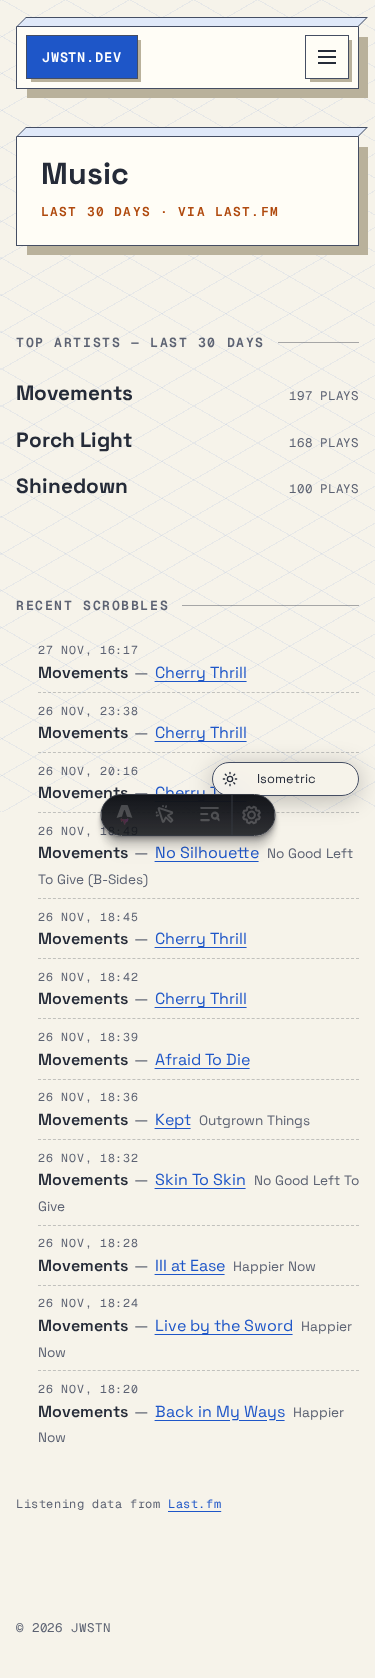
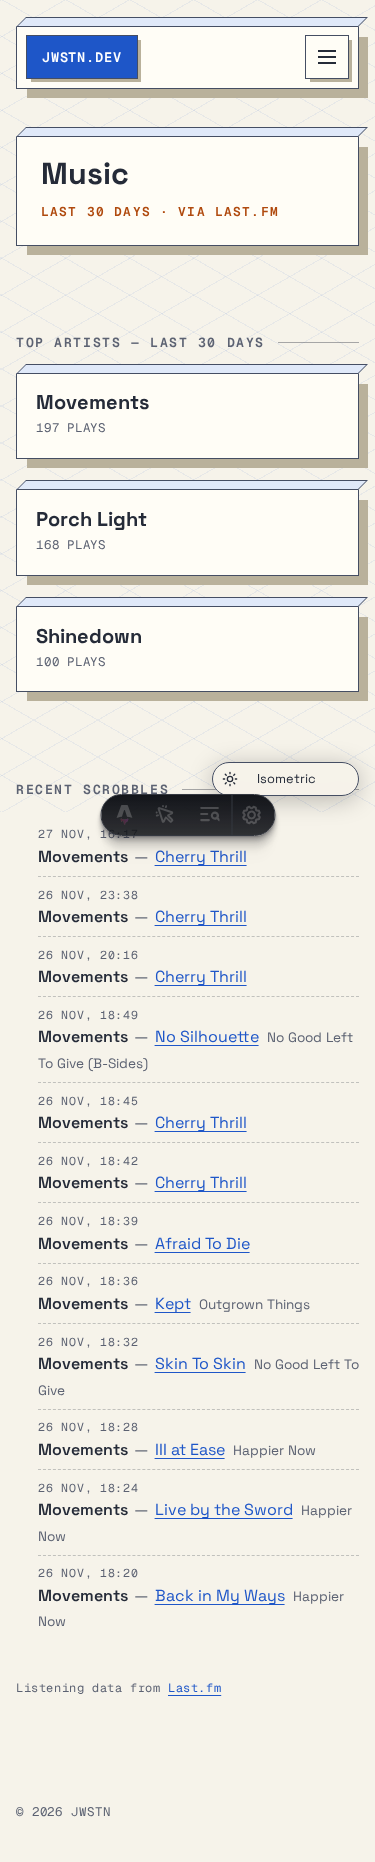
Music page: restore boxed artist cards without the artwork area (#28)

diff --git a/src/themes/isometric/theme.css b/src/themes/isometric/theme.css
@@ -1171,28 +1171,27 @@ html.theme-isometric .iso-plate-note {
 
 html.theme-isometric .iso-artists {
   display: grid;
-  gap: 0.2rem;
+  grid-template-columns: repeat(3, minmax(0, 1fr));
+  gap: 1.9rem;
   padding: 0;
   margin: 0;
   list-style: none;
 }
+@media (max-width: 40rem) {
+  html.theme-isometric .iso-artists {
+    grid-template-columns: 1fr;
+  }
+}
 html.theme-isometric .iso-artist {
-  display: flex;
-  flex-wrap: wrap;
-  align-items: baseline;
-  justify-content: space-between;
-  gap: 0.35rem 1.25rem;
-  padding-block: 0.6rem;
-  border-block-end: 1px dashed color-mix(in oklab, var(--foreground) 25%, transparent);
+  display: grid;
+  gap: 0.3rem;
+  padding: 1.1rem 1.2rem 1.25rem;
   color: inherit;
   text-decoration: none;
 }
-html.theme-isometric .iso-artist:last-child {
-  border-block-end: 0;
-}
 html.theme-isometric .iso-artist-name {
   font-family: var(--font-display);
-  font-size: clamp(1.3rem, 3vw, 1.7rem);
+  font-size: clamp(1.25rem, 2.6vw, 1.55rem);
   font-weight: 700;
   line-height: 1.1;
 }

diff --git a/docs/SCREENSHOTS.md b/docs/SCREENSHOTS.md
@@ -845,10 +845,10 @@ Newsreader on unbleached washi: off-center hero with open ma, staggered rows, to
 
 ## Music — Last.fm listening stats (`/music`)
 
-Isometric page: the **top three artists of the last 30 days** as a simple ranked list (artist name +
-play count), a **recent-scrobbles bullet list** with a now-playing state, and the required Last.fm
-attribution link. No artwork is shown — Last.fm's terms exclude it from the API licence. Other themes
-get a small fallback pointing at the isometric version.
+Isometric page: the **top three artists of the last 30 days** as boxed cards (artist name + play
+count, no artwork area), a **recent-scrobbles bullet list** with a now-playing state, and the required
+Last.fm attribution link. No artwork is shown — Last.fm's terms exclude it from the API licence.
+Other themes get a small fallback pointing at the isometric version.
 
 | | |
 |---|---|
